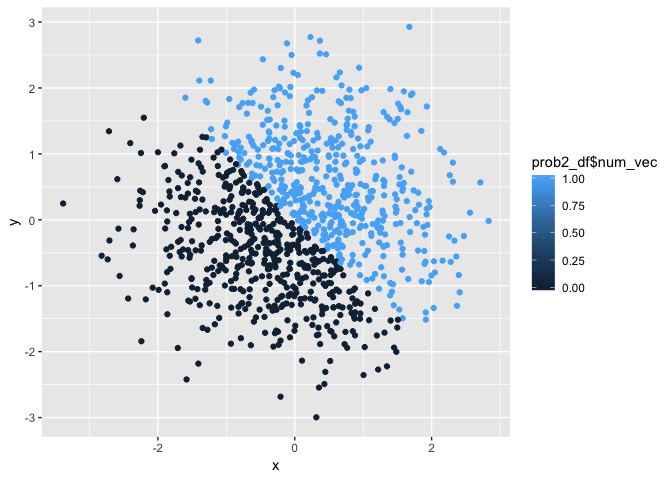
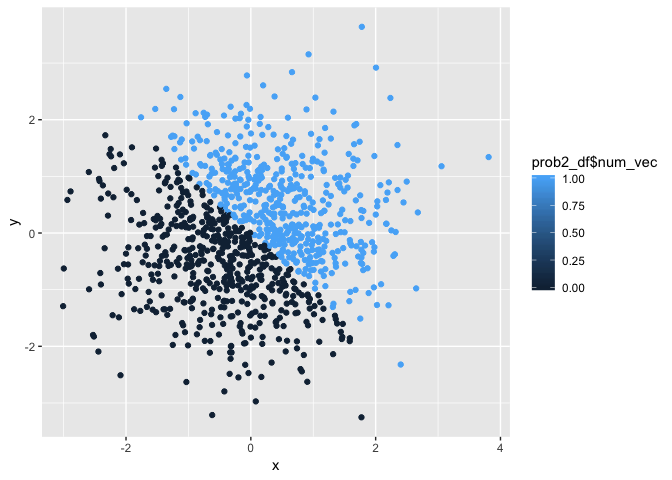
Adding set.seed and changing dataset size

diff --git a/HW1.md b/HW1.md
@@ -76,7 +76,7 @@ It is possible to convert a character vector to a factor vector to a numeric vec
 Below is a dataframe for Problem 2:
 
 ``` r
-library(tidyverse)
+set.seed(1)
 
 prob2_df = tibble(
   x = rnorm(1000),
@@ -87,7 +87,7 @@ prob2_df = tibble(
 )
 ```
 
-My factor vector created above has 1000, a mean of 0.0158068, a median of `median(prob2_df$x)`, and a proportion of cases 0.494.
+My vector created above has a dataset size of 5, a mean of -0.0116481, a median of -0.0353242, and a proportion of cases 0.49.
 
 Below is a scatterplot of x and y that colors the points based on the logical variable:
 
@@ -121,7 +121,7 @@ plot_3
 
 ![](HW1_files/figure-markdown_github/sp_fac_vec-1.png) The blue points represent when fac\_vec = TRUE and the red points represent when fac\_vec = FALSE. This scale is different from the numeric scatterplot (sp\_num\_vec) because there are only a set of values that fac\_vec can take (in this case, TRUE or FALSE) whereas there are an infinite number of values that a numeric vector can take.
 
-Exporting the first scatterplot (sp\_log\_vec) to my project directory.
+Exporting the first scatterplot (plot\_1) to my project directory.
 
 ``` r
 ggsave("scatterplot_log_vec.pdf", plot = plot_1, height = 4, width = 6)
